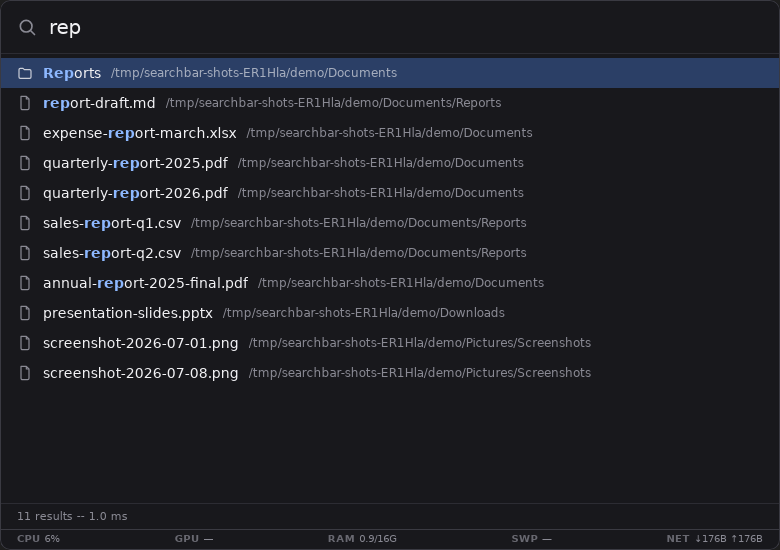
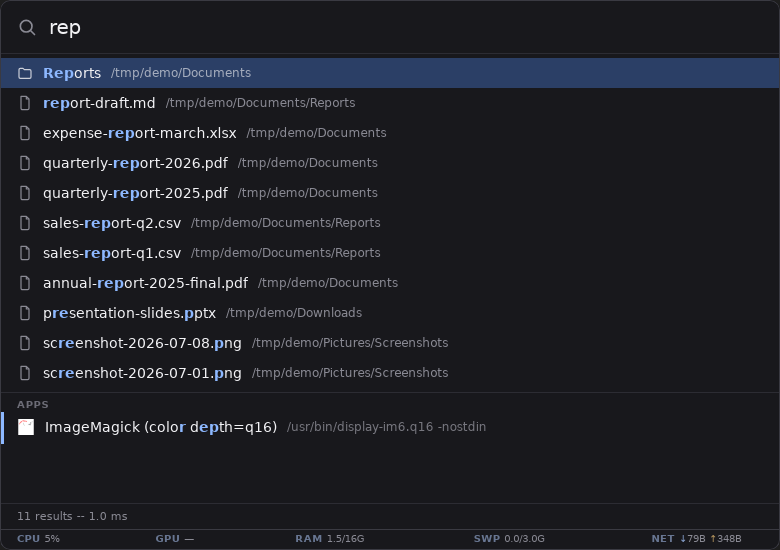
darwin smoke: no screencapture before the focus-sensitive gates (TCC dialog)
Run 29728632030 (head 464438e) failed a4-fps-meter + a5-toggle-hides
while every focus-independent gate passed. Root cause, proven by the
run's own artifact (02-reshown-macos.png captured the dialog): the
job's FIRST screencapture -- the best-effort 01-summoned evidence shot
taken right after a3 -- popped the macOS 26 runner's TCC
screen-recording consent dialog ('bash is requesting to ... directly
access your screen'), a key-stealing system modal. The webview fired
blur, the app's deliberate Spotlight-style blur auto-hide hid the bar,
a4's rAF accumulation starved (a hidden WKWebView services no frames:
2.5s of visible time took ~12.4s wall, the summary landing ~0.5s past
the deadline exactly when a5's toggle re-showed the bar), and a5's
toggle inverted into a re-SHOW because the bar it expected to hide was
already hidden. The race is per-VM (the previous green run sat on the
same 26.4 image and drew a later/looser dialog), so the categorical
fix is ordering: NO capture may precede the focus/visibility-sensitive
hard gates. Scenario A's one evidence shot now lands after a6
re-shows the bar (the same summoned state; 01 keeps its
docs-referenced name, the redundant 02-reshown capture is dropped);
a7/a9 and all of scenario B are dialog-tolerant -- run 29728632030
itself proved them green with the dialog on screen. The frontend
items-5/6/8 diff was innocent: 01-summoned-macos.png from the failed
run shows the bar rendering perfectly.
[…]

diff --git a/.github/scripts/darwin-smoke.ts b/.github/scripts/darwin-smoke.ts
@@ -549,7 +549,22 @@ async function scenarioA(): Promise<void> {
 
   await check("a2-show", async () => assertCli(app, "show"));
   await check("a3-window-appears", () => expectWindow(app, true, WINDOW_DEADLINE_MS));
-  await screenshotBestEffort("01-summoned-macos.png");
+
+  // NO screencapture before a4/a5: on the macOS 26 runner image the job's
+  // FIRST screencapture can pop the TCC screen-recording consent dialog
+  // ("bash is requesting to ... directly access your screen"), a system
+  // modal that steals key status from the bar. The webview then fires
+  // blur and the app's (deliberate, Spotlight-style) blur auto-hide hides
+  // the bar -- starving a4's rAF accumulation (a hidden WKWebView services
+  // no frames) and inverting a5's toggle into a re-SHOW. Proven by run
+  // 29728632030 (head 464438e): 02-reshown-macos.png captured the dialog,
+  // a4+a5 failed exactly that way while every focus-independent gate
+  // passed. The race is per-VM, so the ONLY safe ordering is to keep every
+  // capture behind the focus/visibility-sensitive hard gates; scenario A's
+  // one evidence shot now lands after a6 re-shows the bar (same summoned
+  // state), where the remaining gates (a7 hide, a9 hidden-IPC ack) are
+  // dialog-tolerant -- run 29728632030 itself proved a7/a9 and all of
+  // scenario B green with the dialog on screen.
 
   // a4-fps-meter: with COMPETENT_SEARCH_FPS=1 and the bar visible, a
   // parseable fps summary line must land in the app log (the meter's
@@ -583,7 +598,10 @@ async function scenarioA(): Promise<void> {
     const d = assertCli(app, "toggle");
     return `${d}; ${await expectWindow(app, true, WINDOW_DEADLINE_MS)}`;
   });
-  await screenshotBestEffort("02-reshown-macos.png");
+  // Scenario A's one evidence shot: the a6-reshown bar IS the summoned
+  // state (01 keeps its docs-referenced name). Placed here, after the
+  // focus-sensitive gates, per the TCC-dialog note above a4.
+  await screenshotBestEffort("01-summoned-macos.png");
 
   await check("a7-hide", async () => {
     const d = assertCli(app, "hide");

diff --git a/CLAUDE.md b/CLAUDE.md
@@ -3099,7 +3099,16 @@ speed) in Go + Wails v2 + vanilla TypeScript/Vite.
   screenshots are best-effort "evidence:" captures (never a SMOKE
   id), copied to smoke-shots/ and uploaded via actions/
   upload-artifact@v4 as `darwin-smoke-<sha>` (`if-no-files-found:
-  ignore` -- the linux screenshots pattern) -- including the
+  ignore` -- the linux screenshots pattern), and EVERY capture is
+  ordered AFTER the focus/visibility-sensitive hard gates: the job's
+  FIRST screencapture can pop the macOS 26 TCC screen-recording
+  consent dialog, a key-stealing system modal whose focus loss
+  blur-auto-hides the bar (correct product behavior) -- it starved
+  a4's rAF accumulation and inverted a5's toggle into a re-show on
+  run 29728632030, so scenario A's one shot (01-summoned-macos.png,
+  the a6-reshown bar = the summoned state) lands after a6, where the
+  remaining gates (a7, a9, all of B) are proven dialog-tolerant --
+  including the
   translucentEvidence run between scenarios A and B: one extra boot
   with window.translucent=true (startApp's extraCfg param) captured
   as 03-translucent-macos.png, EVERY failure swallowed as an